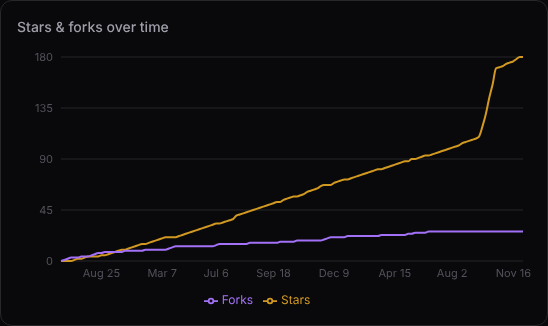
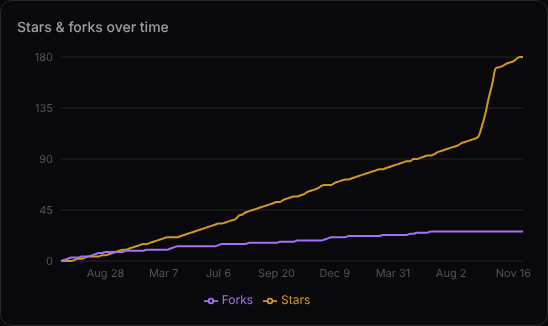
Fix hydration mismatch (React #418) from locale/time-zone date formatting
The repo table's Last push column used toLocaleDateString() with no locale or
time zone, so a push late in the evening (US time) rendered as the next day on
Vercel's UTC server and the previous day in the browser. Format it in UTC with
a fixed locale, like the rest of the app's dates. Last sync now shows in the
viewer's own time zone via a small client component (UTC fallback on the
server), and star/fork dates on the repo page use UTC explicitly.

Claude-Session: https://claude.ai/code/session_01CLg9DnzNoA1a99mdkDcZVb

diff --git a/src/app/page.tsx b/src/app/page.tsx
@@ -1,6 +1,7 @@
 import Link from "next/link";
 import { CiPanel, IssueFlowPanel, SecurityCounts } from "@/components/Activity";
 import { FrameworksPanel } from "@/components/Frameworks";
+import { LocalTime } from "@/components/LocalTime";
 import { TimeSeriesChart } from "@/components/charts";
 import { RangePicker } from "@/components/RangePicker";
 import { RepoTable } from "@/components/RepoTable";
@@ -31,7 +32,7 @@ export default async function Overview({ searchParams }: { searchParams: Promise
         <div>
           <h1 className="text-2xl font-semibold">All repositories</h1>
           <p className="text-sm text-zinc-500">
-            Last sync: {data.lastRun?.finishedAt ? new Date(data.lastRun.finishedAt).toLocaleString() : "never"}
+            Last sync: {data.lastRun?.finishedAt ? <LocalTime iso={new Date(data.lastRun.finishedAt).toISOString()} /> : "never"}
             {range === 0 && <> · history since {data.since}</>}
           </p>
         </div>

diff --git a/src/components/LocalTime.tsx b/src/components/LocalTime.tsx
@@ -1,0 +1,19 @@
+"use client";
+
+import { useEffect, useState } from "react";
+
+/**
+ * A timestamp in the viewer's own time zone and locale. The server can't know either, so it
+ * renders a UTC fallback and the browser swaps in local time after hydration — no mismatch.
+ */
+export function LocalTime({ iso }: { iso: string }) {
+  const [local, setLocal] = useState<string | null>(null);
+  useEffect(() => {
+    setLocal(new Date(iso).toLocaleString(undefined, { dateStyle: "medium", timeStyle: "short" }));
+  }, [iso]);
+  return (
+    <time dateTime={iso} title={iso}>
+      {local ?? `${new Date(iso).toLocaleString("en-US", { dateStyle: "medium", timeStyle: "short", timeZone: "UTC" })} UTC`}
+    </time>
+  );
+}

diff --git a/src/components/RepoTable.tsx b/src/components/RepoTable.tsx
@@ -136,7 +136,8 @@ export function RepoTable({ repos, range, initialQuery = "" }: { repos: RepoRow[
                   {pct(r.ciPassRate)}
                 </td>
                 <td className="px-3 py-2 text-xs text-zinc-500">
-                  {r.pushedAt ? new Date(r.pushedAt).toLocaleDateString() : "—"}
+                  {/* Fixed locale + UTC so the server render and the browser's hydration agree */}
+                  {r.pushedAt ? new Date(r.pushedAt).toLocaleDateString("en-US", { timeZone: "UTC" }) : "—"}
                 </td>
               </tr>
             ))}

diff --git a/src/app/repo/[owner]/[name]/page.tsx b/src/app/repo/[owner]/[name]/page.tsx
@@ -318,7 +318,7 @@ function PeopleList({
                 {i.label ?? i.login}
               </a>
               {i.extra && <span className="text-xs text-zinc-500">{i.extra}</span>}
-              <span className="ml-auto shrink-0 text-xs text-zinc-500">{new Date(i.at).toLocaleDateString()}</span>
+              <span className="ml-auto shrink-0 text-xs text-zinc-500">{new Date(i.at).toLocaleDateString("en-US", { timeZone: "UTC" })}</span>
             </li>
           ))}
         </ul>
